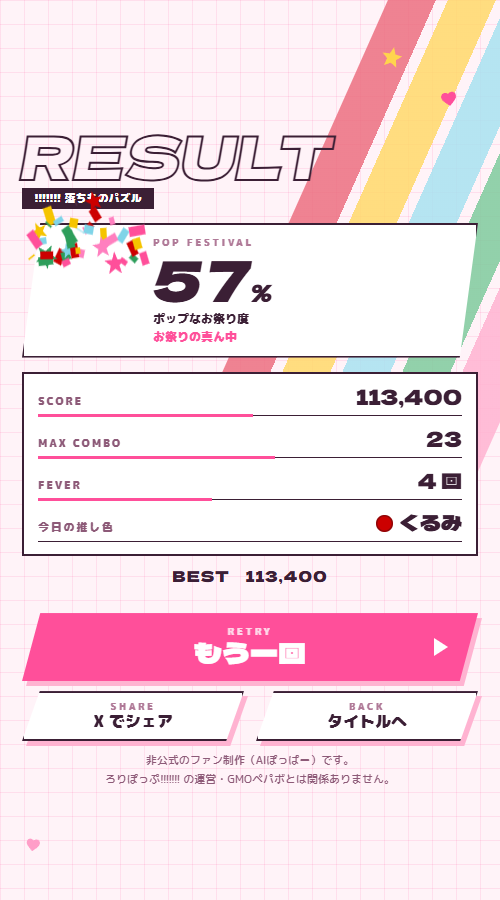
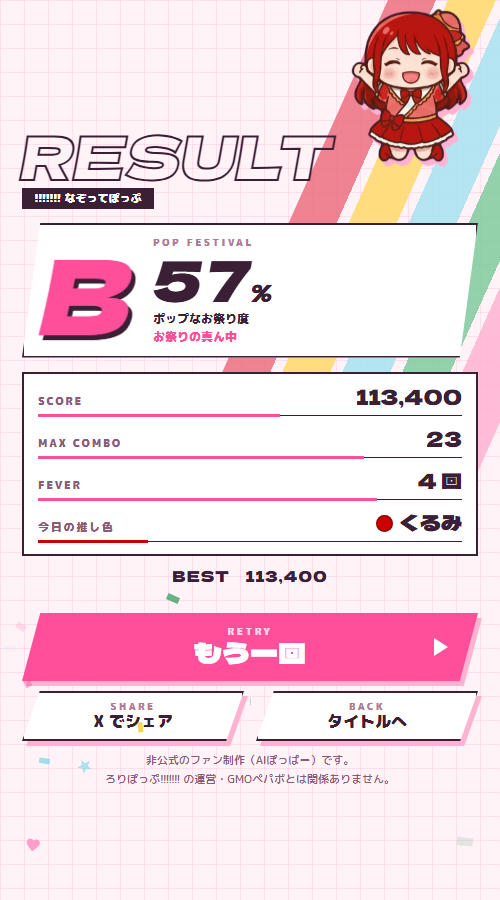
note 解説記事の原稿を追加し、結果画面の画像を撮り直す

diff --git a/docs/articles/note_解説記事.md b/docs/articles/note_解説記事.md
@@ -1,0 +1,141 @@
+# 推しの顔をなぞって、!!!!!!! フィーバー。ろりぽっぷ!!!!!!!のブラウザゲーム「!!!!!!! なぞってぽっぷ」を作りました
+
+<!-- note 用の原稿。画像は docs/articles/images/ のものを、各見出しの位置に貼る。末尾の「編集メモ」は投稿時に消す -->
+
+アイドルグループ「ろりぽっぷ!!!!!!!」のメンバーの顔をなぞって消す、スマホのブラウザで遊べるパズルゲームを作りました。インストールは要りません。
+
+**▶ 遊ぶ：https://lollpop-puzzle.lolipop-now.app/**
+
+非公式のファン制作です。ろりぽっぷ!!!!!!! の運営・GMOペパボとは関係ありません。メンバーの絵は、公式写真をもとに AI（Gemini）で描いたもので、運営の許可をいただいて掲載しています。
+
+![タイトル画面](images/title.png)
+
+## どんなゲーム？
+
+盤面に積もったメンバー 5 人の顔の駒を、同じメンバーどうし 3 つ以上なぞってつなげ、指を離して消すパズルです。1 回は 1 分間。どこまで盛り上げられるかに挑戦します。
+
+駒になっているのは、今のメンバー 5 人です。
+
+- やぎくるみ（くるみん）：赤
+- 夏川茉夢（おまゆ）：黄
+- まう（まう～）：水色
+- 松川愛美（あみてん）：緑
+- 愛月まな（まなてぃー）：白
+
+## なぜ作ったか
+
+自分が応援している「ろりぽっぷ!!!!!!!」で、スマホでつい何度も遊んでしまう「なぞってつなげて消す」パズルを作りたいと思ったのが始まりです。
+
+グループ名に付いている 7 個の「!」と、メンバー 5 人の担当カラーは、そのままゲームの仕組みにできると考えました。駒の色はメンバーカラー、フィーバーの合図は「!!!!!!!」です。
+
+ライブの合間の待ち時間に 1 分で 1 回遊べて、結果をそのまま X でシェアできる。そんな手軽さを目指しました。
+
+## 遊び方
+
+1. タイトルで「あそぶ」（1 分）か「エンドレス」を選びます。
+2. 同じメンバーの駒を 3 つ以上なぞって、指を離すと消えます。
+3. 続けて消すと「コンボ」になり、得点が伸びます。
+4. 8 個消すごとに「!」が 1 個たまり、7 個そろうと「!!!!!!! フィーバー」です。
+
+操作は片手の親指だけで完結します。初めて遊ぶときは、最初の 1 回だけ遊び方のカードが出ます。最初の 1 回を消すまでは時間が減らないので、落ち着いて始められます。
+
+![遊び方のカード](images/howto.png)
+
+![プレイ中の盤面](images/play.png)
+
+### 長くつなぐと「スター飴」
+
+7 個以上つなぐと、盤面にピンクの「スター飴」が出ます。タップすると、周りの駒をまとめて消せます。
+
+長くつなぐほど得点も伸びるので、すぐ消すか、もう少しつなぐか、毎回ちょっと迷います。
+
+![スター飴が出た盤面](images/special.png)
+
+### 困ったら「ぽっぷボム」
+
+つなげる組が見つからないときは、画面下の「ぽっぷボム」を押します。盤面の下のほうを吹き飛ばして、駒を混ぜ直せます。1 試合で 3 回まで使えます。
+
+## !!!!!!! フィーバー
+
+「!」が 7 個そろうと、12 秒間の「!!!!!!! フィーバー」に入ります。
+
+- なぞった駒の周りも巻き込んで消えます
+- 得点は 3 倍です
+- 残り時間が 5 秒延びます
+- メンバー全員が星の目になります
+
+グループ名の「!!!!!!!」がたまっていくのが、このゲームでいちばん見てほしいところです。
+
+![フィーバー中の盤面](images/fever.png)
+
+### ラストスパートとボーナスタイム
+
+残り 10 秒になると「LAST SPURT」です。2 個消すごとに「!」が 1 個たまるので、最後にもう 1 回フィーバーを狙えます。
+
+時間切れの瞬間にフィーバー中なら、そのフィーバーが終わるまで「BONUS TIME」が続きます。
+
+![ボーナスタイム](images/bonus.png)
+
+## 結果は「ポップなお祭り度」
+
+終わると、スコアをそのまま出すのではなく、「ポップなお祭り度」（%）とランクで結果を出します。ほかに、スコア、最大コンボ、フィーバーの回数が並びます。
+
+いちばん多く消したメンバーが「今日の推し色」です。そのメンバーが全身で喜ぶポーズで出てきます。
+
+結果は「X でシェア」のボタン 1 つで投稿できます。自己ベストは端末に保存されます。
+
+![結果画面](images/result.png)
+
+## エンドレスモード
+
+エンドレスモードには時間制限がありません。代わりに「のこり」が減り続け、駒を消すと戻ります。「のこり」が減る速さはだんだん上がっていき、0 になったらゲームオーバーです。結果には、続いた時間も出ます。
+
+## こだわったところ
+
+### 顔だけの、ぷっくりした駒
+
+駒は、メンバー 5 人の顔をぷっくりした 3D 風にデフォルメしたものです。髪はメンバーカラーです。
+
+最初は体のある絵でしたが、盤面で跳ねたときに可愛く見えなかったので、顔だけにしました。質感は、くるみんの絵で 6 つの案（ぷっくり 3D・ぬいぐるみ・缶バッジ・飴玉・マシュマロ大福・粘土）を描いて比べました。盤面の実際の大きさにしたとき、いちばん顔と色が読み取れたのが、ぷっくり 3D でした。
+
+![質感の 6 案](images/styles.png)
+
+表情は 1 人 4 つあります。通常、笑顔、消えた瞬間のはじけ顔、フィーバー中の星の目です。結果画面の全身ポーズを合わせて、絵は全部で 25 枚です。
+
+### 転がって、つぶれる
+
+駒は、箱の中に積もった丸い飴のように動きます。消すと上の駒が転がり落ち、着地するときにぽよんとつぶれます。
+
+### ロゴの「!」はメンバーカラー
+
+タイトルのロゴの「!!!!!!!」は、ロリポップ（棒付きキャンディ）の形にしました。7 本の色は、卒業したメンバーも含めた 7 人のメンバーカラーです。
+
+### スマホでの手触り
+
+効果音は、音源ファイルを使わず、ブラウザの中で合成して鳴らしています。Android ではなぞるたびに軽く振動し、iPhone でもボタンを押したときに手応えが返るようにしました。振動はタイトル画面でオフにできます。
+
+## 最後に
+
+1 分で終わるので、ライブの開演待ちなど、ちょっとした時間にどうぞ。今日の推し色が誰になるか、ぜひ試してみてください。
+
+**▶ 遊ぶ：https://lollpop-puzzle.lolipop-now.app/**
+
+※ 非公式のファン制作です。ろりぽっぷ!!!!!!! の運営・GMOペパボとは関係ありません。メンバーの絵は、公式写真をもとに AI（Gemini）で作画し、許可をいただいて掲載しています（©FLAP entertainment）。楽曲の音源や歌詞は使っていません。
+
+---
+
+## 編集メモ（投稿時に削除）
+
+- 画像はすべて `images/` にある。スマホ縦 500×900 でローカル（`?pos=`）を撮影
+  - `title.png` `howto.png` `play.png` `fever.png` `styles.png` は既存のもの
+  - `result.png` は 2026-09-29 に撮り直した。旧版は結果画面の表記が改名前の「落ちものパズル」で、推し色のポーズも写っていなかった（`?pos=result&seed=1`）。`contest_description.md` も同じ画像を参照している
+  - `special.png`（`?pos=special&seed=1`）と `bonus.png`（`?pos=bonus&seed=1`）を足した
+- 数値は `js/config.js` から（3 個・8 個で「!」1 個・7 個でフィーバー・12 秒・3 倍・+5 秒・スター飴 7 個・ボム 3 回・ラストスパート 10 秒で 2 個）
+- 駒を顔だけにした理由（体があると跳ねたときに可愛くない）と 6 案の比較は `docs/handoff.md` の決定事項と `zenn_lollpop_puzzle.md` から
+- ロゴの 7 色（卒業生を含む）は `docs/handoff.md` の 2026-09-29 夜の節から
+- 手本にした定番ゲームの名前（ツムツム）は出していない。`contest_description.md` では出している。どちらに寄せるかはオーナー判断
+- デプロイナウコンテストへの応募には触れていない。運営の承認後に書くなら、「最後に」の前に「GMOペパボ主催のデプロイナウコンテストに応募しています」の 1 文を足す
+- BGM は未実装（合成のオリジナル曲に決定済み）。記事では効果音だけに触れた
+- 結果のランク・お祭り度の段階名・満点ラインは仮の値なので、具体的な段階名とランクの境目は書いていない
+- シェアのハッシュタグは `#ろりぽっぷパズル`（`CONFIG.share.hashtags`）。記事では触れていない
+- `style_ai_poppar.md` の冒頭の注意書き（AI で分析して性格づけ）は、ほかのゲームの解説 note にそろえて入れていない
